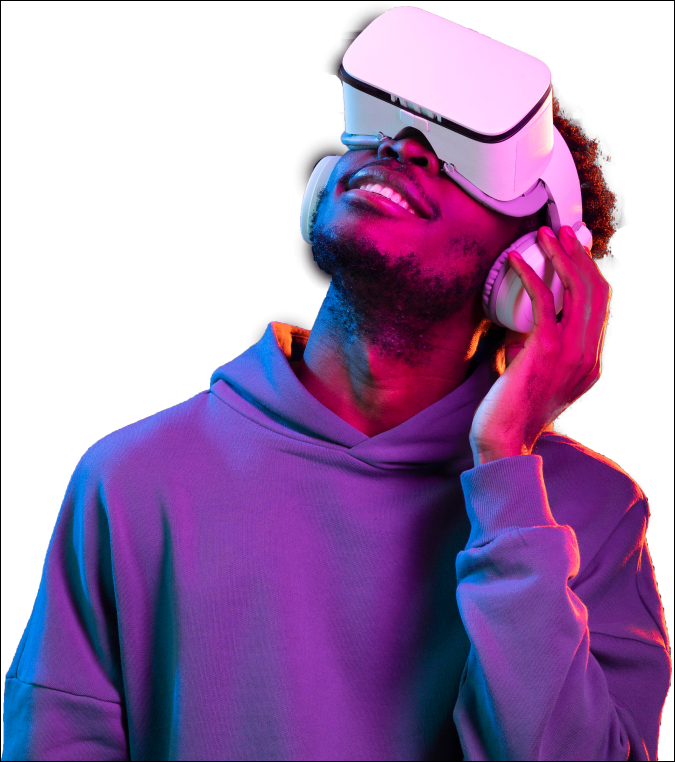
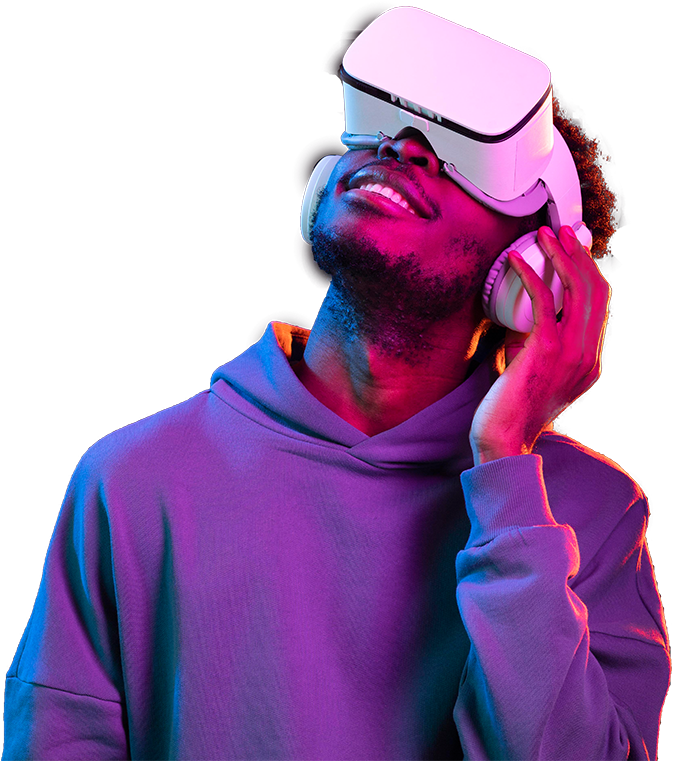
29.04.2023

diff --git a/index.html b/index.html
@@ -35,12 +35,10 @@
 	</head>
 	<body>
 		<header class="header">
-			<div class="container">
-				<div class="logo">
-					<h1 class="header-logo">GAME OVER</h1>
-					<p class="subheader-logo">Новый формат игр и отдыха</p>
-					<img src="img/man.png" alt="man" class="img-logo" />
-				</div>
+			<div class="container container-header">
+				<h1 class="header-logo">GAME OVER</h1>
+				<p class="subheader-logo">Новый формат игр и отдыха</p>
+				<!-- <img src="img/man.png" alt="man" class="img-logo" /> -->
 			</div>
 		</header>
 
@@ -48,34 +46,22 @@
 			<section class="halls">
 				<div class="container">
 					<h2 class="halls-header">Наши залы</h2>
-
-					<div class="wrapper">
-						<img class="img" src="img/80vibes.jpg" alt="80's vibes" />
-						<p class="wrapper-p">80’s vibes</p>
+					<div class="vibes-img allImg"><p class="vibes">80’s vibes</p></div>
+					<div class="starWars-img allImg">
+						<p class="starWars">Star wars</p>
 					</div>
-					<div class="wrapper">
-						<img class="img" src="img/starwars.jpg" alt="Star Wars" />
-						<p class="wrapper-p">Star wars</p>
+					<div class="neonStyle-img allImg">
+						<p class="neonStyle">neon style</p>
 					</div>
-					<div class="wrapper">
-						<img class="img" src="img/wildwest.jpg" alt="Wild west" />
-						<p class="wrapper-p">wild west</p>
-					</div>
-					<div class="wrapper">
-						<img
-							class="img"
-							class="img-responsive"
-							src="img/neonstyle.jpg"
-							alt="Neon style"
-						/>
-						<p class="wrapper-p">neon style</p>
+					<div class="wildWest-img allImg">
+						<p class="wildWest">wild west</p>
 					</div>
 				</div>
 			</section>
 
 			<section class="booking">
 				<div class="container">
-					<h2 class="booking-title">Забронировать</h2>
+					<h2 class="booking-header">Забронировать</h2>
 					<form
 						method="post"
 						action="https://jsonplaceholder.typicode.com/posts"
@@ -197,11 +183,11 @@
 				<div class="container">
 					<h2 id="aboutUs" class="aboutUs-header">О нас</h2>
 					<div class="aboutUs-p">
-						<p>
+						<p class="aboutUs-text">
 							Для наших гостей мы создали концептуально новое игровое
 							пространство виртуальной реальности в центральной части города.
 						</p>
-						<p>
+						<p class="aboutUs-text">
 							Каждый день мы стараемся создавать для вас самую лучшую игровую
 							атмосферу и радовать Вас топовыми игровыми разработками со всего
 							мира.
@@ -209,10 +195,7 @@
 					</div>
 
 					<blockquote>
-						<div class="aboutUs-text">
-							<p class="test-p">GAME OVER —</p>
-							<p class="test-p">это место незабываемых впечатлений</p>
-						</div>
+						<p class="test-p">GAME OVER — это место незабываемых впечатлений</p>
 					</blockquote>
 
 					<div class="aboutUs-wrapper">
@@ -266,12 +249,33 @@
 							>
 						</div>
 					</address>
-					<div class="social-item">
-						<img class="social" src="icon/vk.svg" alt="" />
-						<img class="social" src="icon/tg.svg" alt="" />
-						<img class="social" src="icon/pinterest.svg" alt="" />
-						<img class="social" src="icon/stumbleupon.svg" alt="" />
-					</div>
+					<nav class="nav">
+						<ul class="nav-list">
+							<li class="social-item">
+								<a href="#">
+									<img class="social" src="icon/vk.svg" alt="VKontakte"
+								/></a>
+							</li>
+							<li class="social-item">
+								<a href="#">
+									<img class="social" src="icon/tg.svg" alt="Telegram"
+								/></a>
+							</li>
+							<li class="social-item">
+								<a href="#">
+									<img class="social" src="icon/pinterest.svg" alt="Pinterest"
+								/></a>
+							</li>
+							<li class="social-item">
+								<a href="#"></a>
+								<img
+									class="social"
+									src="icon/stumbleupon.svg"
+									alt="StumbleUpon"
+								/>
+							</li>
+						</ul>
+					</nav>
 				</div>
 			</section>
 		</footer>

diff --git a/css/healls.css b/css/healls.css
@@ -1,5 +1,6 @@
 /* start section healls */
 .halls {
+	min-height: 3136px;
 	margin-bottom: 100px;
 }
 .halls-header {
@@ -7,6 +8,7 @@
 	font-size: 40px;
 	text-align: center;
 	text-transform: uppercase;
+	margin-top: 0;
 	margin-bottom: 60px;
 }
 
@@ -14,17 +16,21 @@
 	z-index: 1;
 }
 
-.wrapper {
+.img {
 	position: relative;
 	margin-bottom: 60px;
 	max-width: 1180px;
+	height: 710px;
 }
 .wrapper:last-child {
 	margin: 0;
 }
 
-.wrapper-p {
-	position: absolute;
+.vibes,
+.starWars,
+.neonStyle,
+.wildWest {
+	padding-top: 275px;
 	font-family: 'Arial';
 	font-weight: 700;
 	font-size: 70px;
@@ -32,11 +38,37 @@
 	text-transform: uppercase;
 	color: #ffffff;
 	width: 226px;
-	top: 50%;
-	left: 50%;
-	transform: translate(-50%, -50%);
 	text-align: center;
 	margin: 0 auto;
+	vertical-align: middle;
 }
 
+.vibes-img {
+	background: url('../img/80vibes.jpg');
+	width: 1180px;
+	height: 710px;
+}
+.starWars-img {
+	background: url('../img/starWars.jpg');
+	width: 1180px;
+	height: 710px;
+}
+.neonStyle-img {
+	background: url('../img/neonstyle.jpg');
+	width: 1180px;
+	height: 710px;
+}
+.wildWest-img {
+	background: url('../img/wildWest.jpg');
+	width: 1180px;
+	height: 710px;
+}
+
+.allImg {
+	margin-bottom: 80px;
+}
+
+.allImg:last-child {
+	margin: 0;
+}
 /* end of section healls */

diff --git a/css/aboutUs.css b/css/aboutUs.css
@@ -1,11 +1,12 @@
 /* start section aboutUs */
 
 .aboutUs {
+	min-height: 546px;
 	margin-bottom: 100px;
 }
 
 .aboutUs-header {
-	margin-bottom: 74px;
+	margin-top: 0px;
 	font-weight: 700;
 	font-size: 40px;
 	text-align: center;
@@ -13,15 +14,16 @@
 	margin-bottom: 50px;
 }
 
-.aboutUs-p {
+.aboutUs-text {
 	max-width: 1180px;
 	font-size: 20px;
 	line-height: 28px;
-	margin-bottom: 74px;
+	margin-top: 0;
+	margin-bottom: 40px;
 }
 
-.aboutUs-text {
-	padding-bottom: 40px;
+.aboutUs-text:last-child {
+	padding-bottom: 70px;
 }
 
 .test-p {
@@ -30,7 +32,7 @@
 	font-size: 44px;
 	line-height: 50px;
 	text-transform: uppercase;
-	width: 1179px;
+	width: 1125px;
 }
 .test-p:last-child {
 	margin-top: 0;

diff --git a/css/contacts.css b/css/contacts.css
@@ -1,8 +1,10 @@
 footer {
-	margin-bottom: 52px;
+	padding-bottom: 52px;
+	min-height: 364px;
 }
 
 .contact-header {
+	margin-top: 0;
 	margin-bottom: 54px;
 	font-family: 'Arial';
 	font-weight: 700;
@@ -34,10 +36,12 @@ footer {
 	margin-bottom: 39px;
 }
 
+.nav-list {
+	margin: 0;
+	padding: 0;
+}
+
 .social-item {
 	display: inline-block;
-	padding-bottom: 52px;
-}
-.social {
 	margin-right: 27px;
 }

diff --git a/css/style.css b/css/style.css
@@ -3,15 +3,15 @@
 }
 
 body {
-	/* background-color: #1b1a1b; */
-	background-color: #000000;
+	background-color: #1b1a1b;
 	color: #fff;
 	font-family: Arial, sans-serif;
 }
 
 .container {
-	max-width: 1180px;
+	max-width: 1240px;
 	margin: 0 auto;
+	padding: 0 30px;
 }
 
 a {
@@ -20,4 +20,8 @@ a {
 
 li {
 	list-style-type: none;
+}
+
+address {
+	font-style: normal;
 }

diff --git a/css/header.css b/css/header.css
@@ -1,10 +1,11 @@
 .header {
-	margin-top: 146px;
+	padding: 146px 0 100px;
 }
 
-.logo {
+.container-header {
 	position: relative;
-	padding-bottom: 723px;
+	min-height: 823px;
+	background: url('../img/man.png') bottom -30px right 20px no-repeat;
 }
 
 .header-logo {

diff --git a/css/booking.css b/css/booking.css
@@ -1,10 +1,12 @@
 /* start of section booking  */
 
 .booking {
-	margin-bottom: 123px;
+	height: 455px;
+	margin-bottom: 100px;
 }
 
-.booking-title {
+.booking-header {
+	margin-top: 0;
 	margin-bottom: 50px;
 	font-weight: 700;
 	font-size: 40px;
